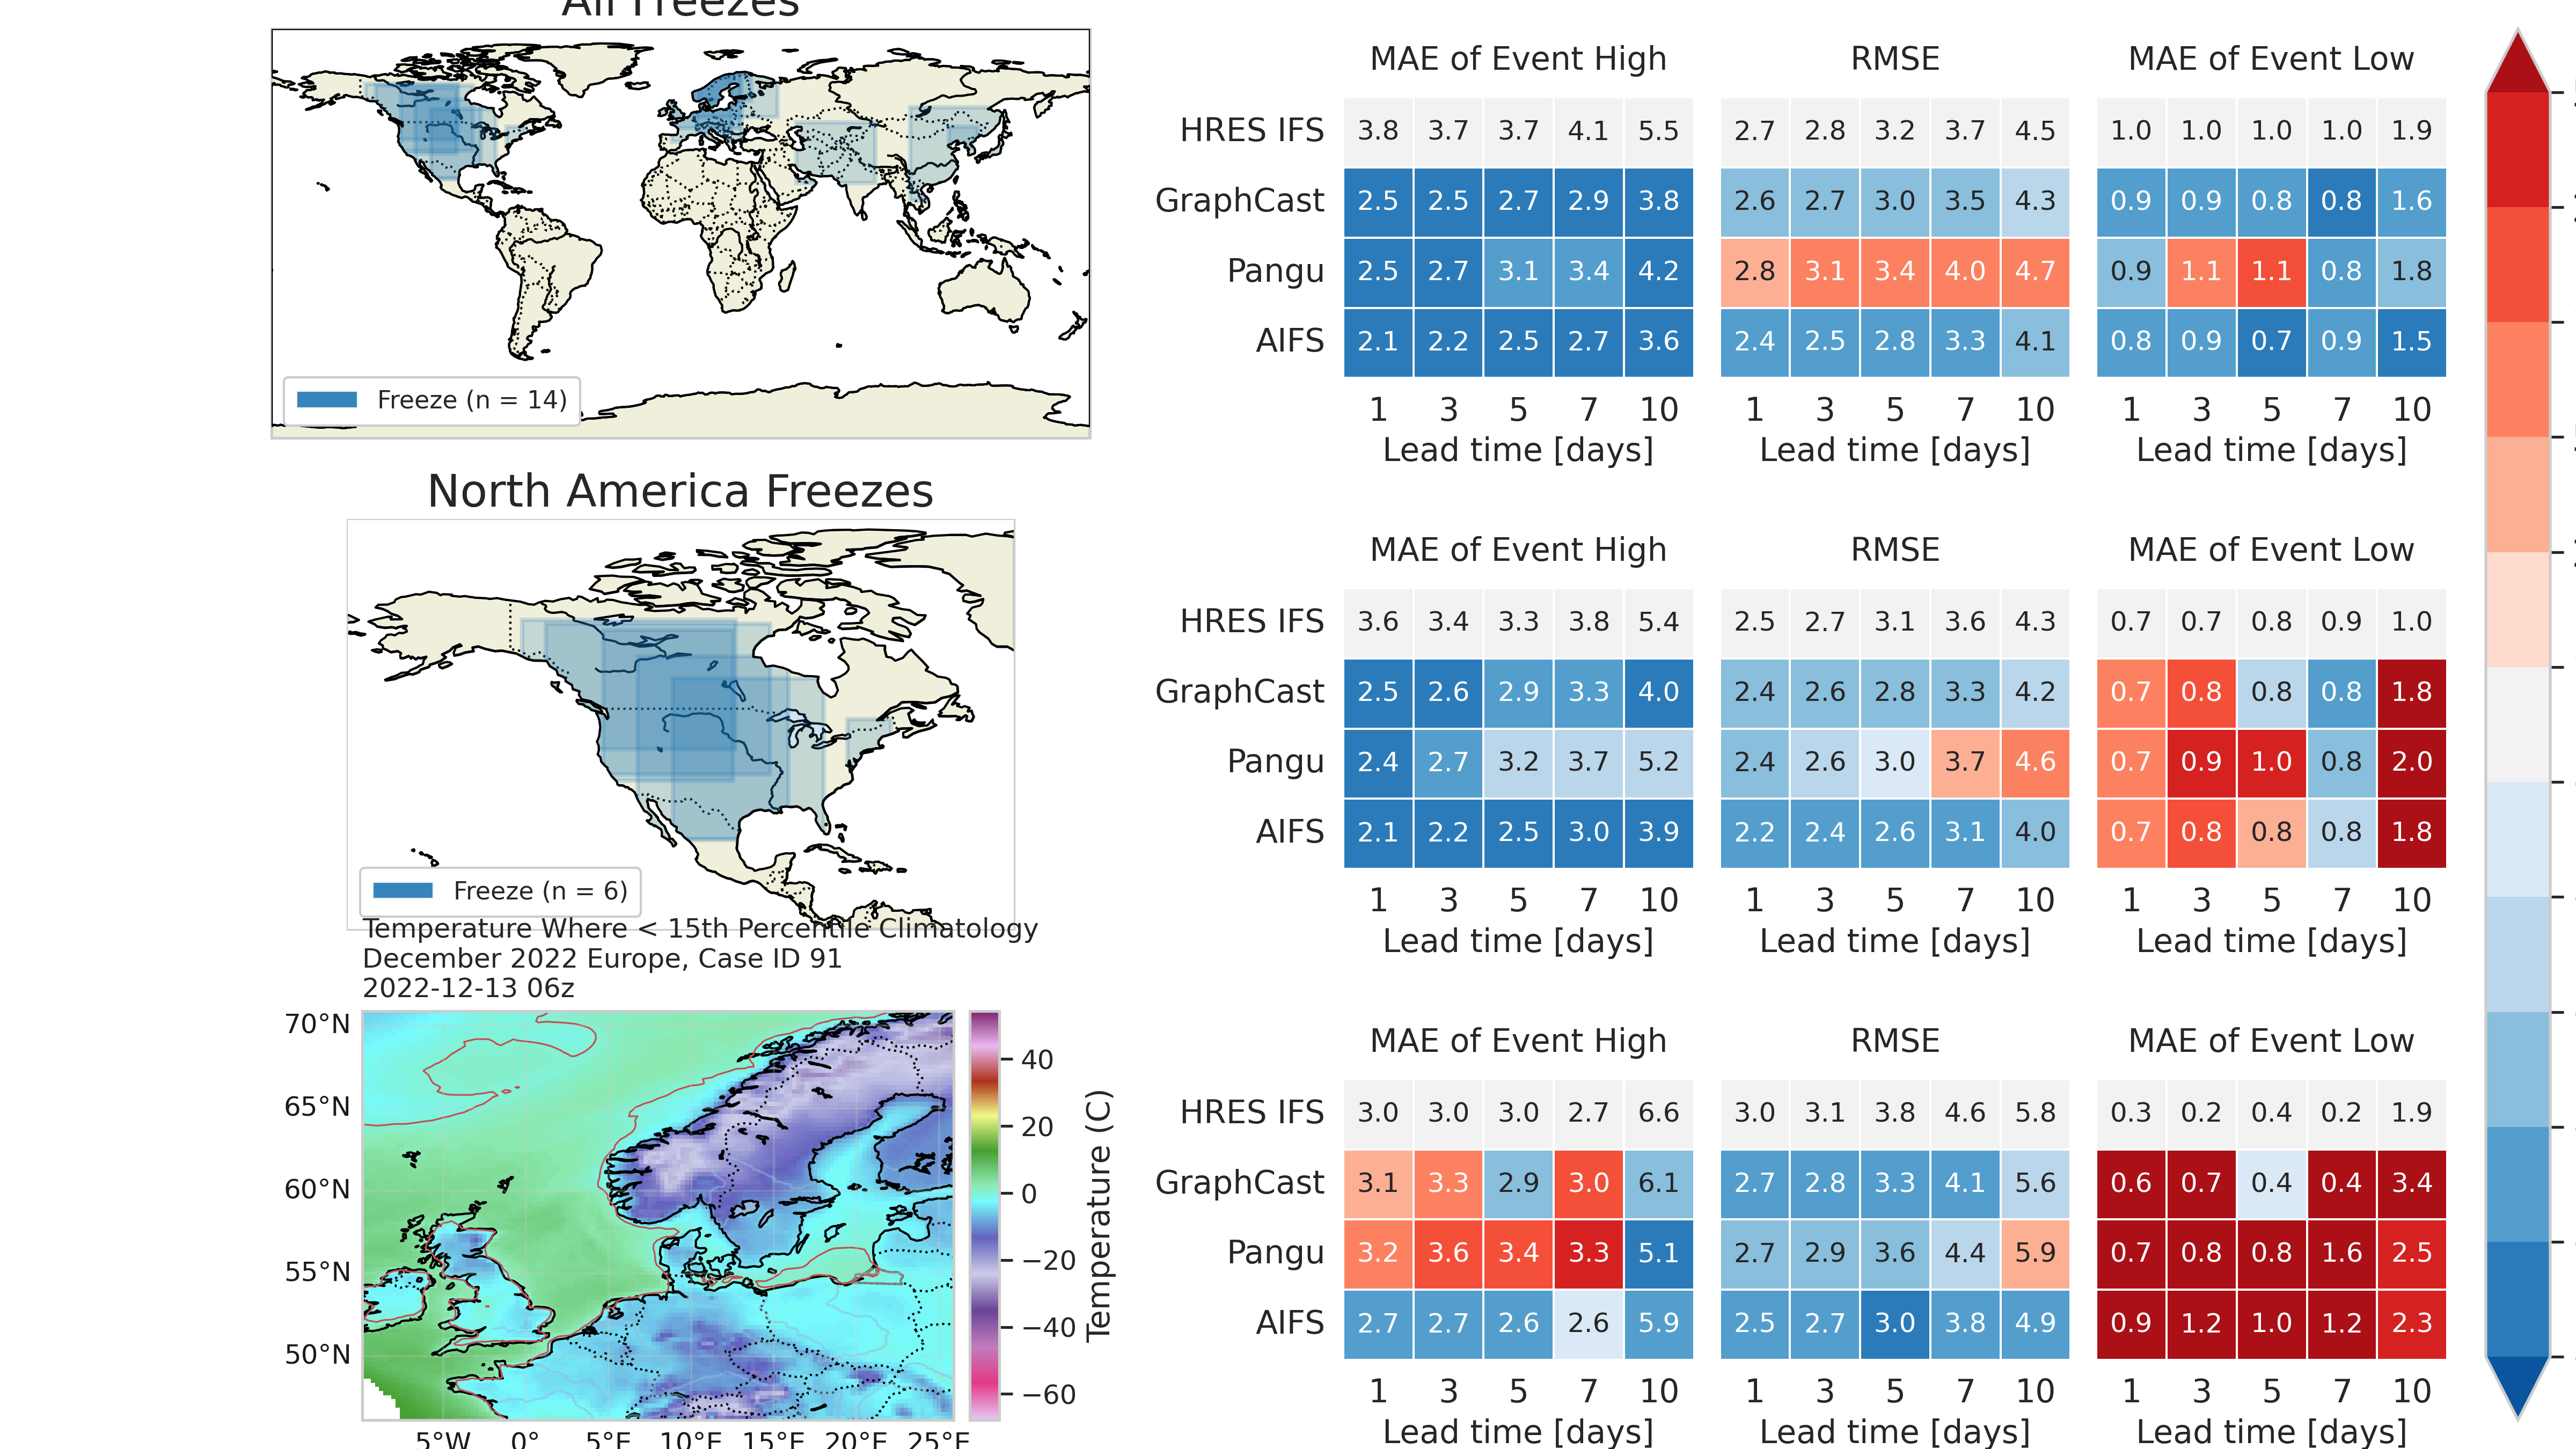
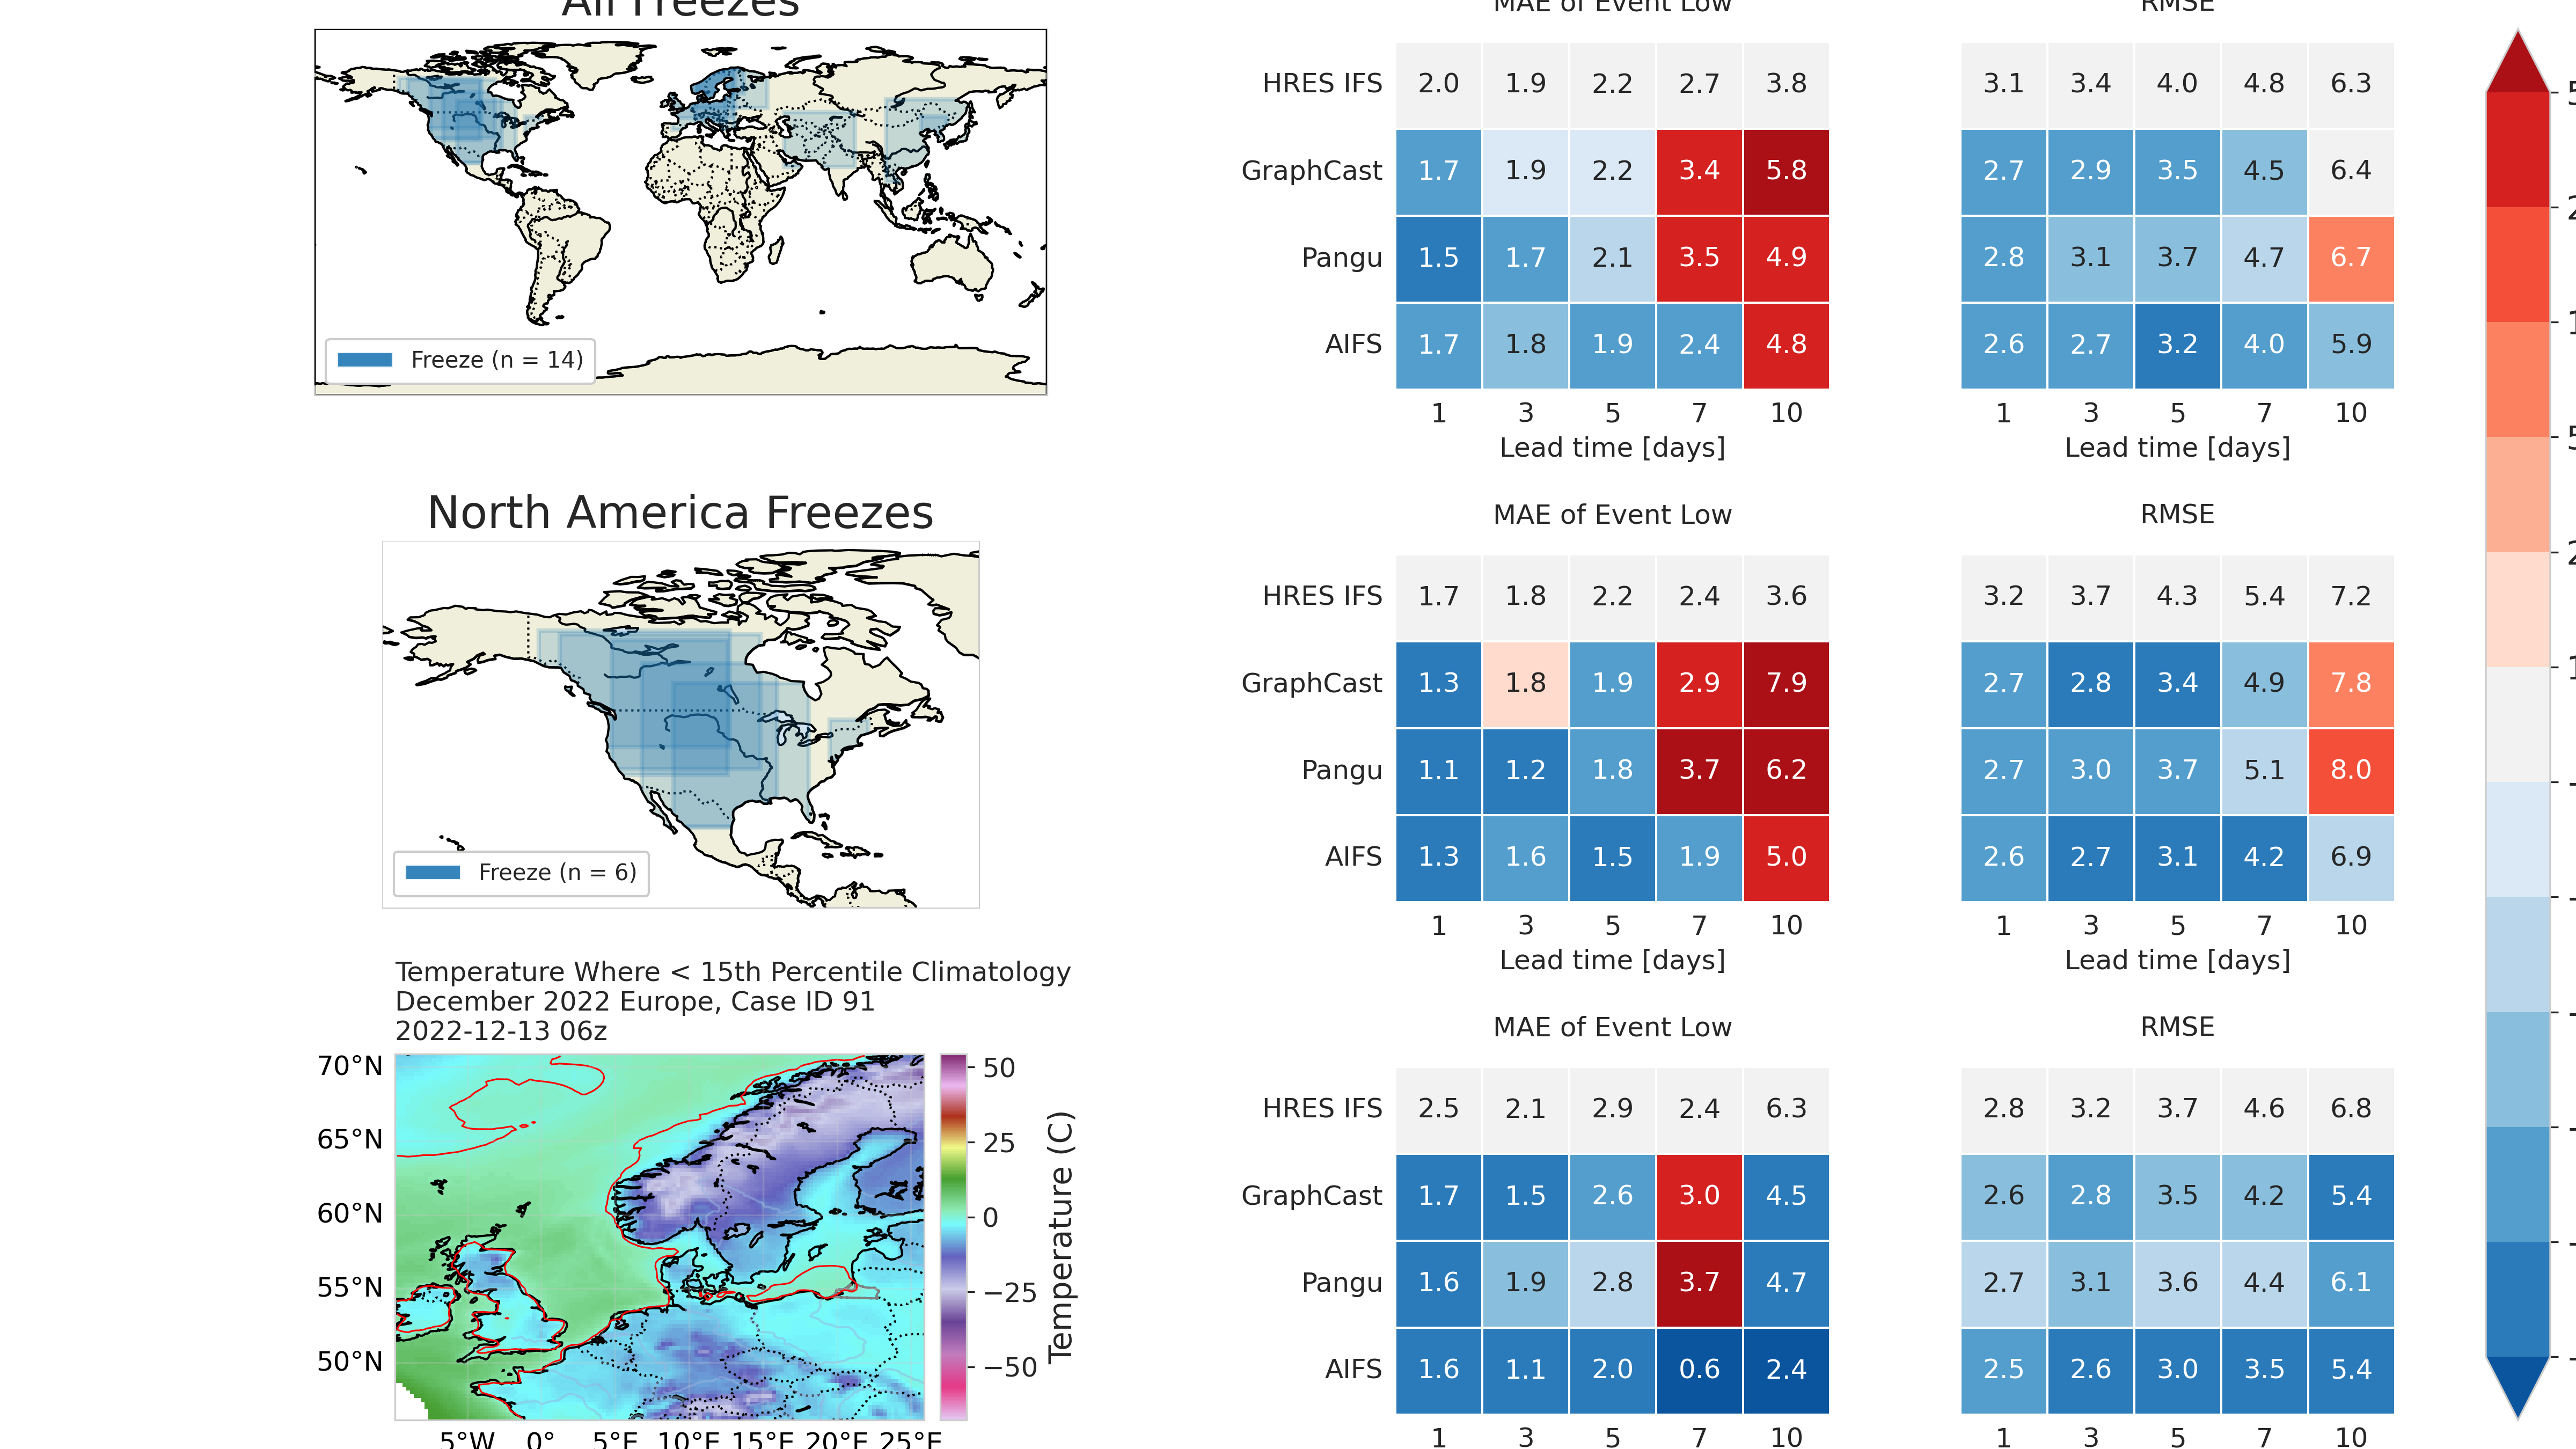
Fixed up figure 3 to put the colorbar back right and redid figure 2

diff --git a/src/plots/plotting_utils.py b/src/plots/plotting_utils.py
@@ -1654,6 +1654,86 @@ def add_scorecard_colorbar_right(
     return cb
 
 
+def add_horizontal_colorbar_below(
+    fig: plt.Figure,
+    mappable,
+    spanning_axes: Sequence[Any],
+    *,
+    n_subplots: Optional[int] = None,
+    pad: Optional[float] = None,
+    height: Optional[float] = None,
+    extend: str = "neither",
+    label: Optional[str] = None,
+    levels: Optional[Sequence[float]] = None,
+    label_fontsize: Optional[float] = None,
+    tick_labelsize: Optional[float] = None,
+):
+    """Add a horizontal colorbar below the bottom edge of a subplot span.
+
+    Horizontal extent and vertical placement use the union of ``get_position()``
+    boxes for ``spanning_axes`` (figure coordinates), analogous to
+    :func:`add_scorecard_colorbar_right`. Default ``pad`` and ``height`` follow
+    the layout used in ``plot_all_cbss_pph`` (fractions of the shortest axis
+    height in the span). For GridSpec-based layouts with a dedicated colorbar
+    row, see :func:`add_horizontal_colorbar`.
+
+    Args:
+        fig: Figure containing the axes.
+        mappable: ScalarMappable (cmap/norm) for the colorbar.
+        spanning_axes: Non-empty sequence of axes whose bbox union defines span.
+        n_subplots: If set, must equal ``len(spanning_axes)``.
+        pad: Figure-coordinate gap from the lowest ``y0`` in the span to the
+            top of the colorbar. If ``None``, ``0.15 * min_axis_height``.
+        height: Colorbar axis height in figure coordinates. If ``None``,
+            ``0.15 * min_axis_height``.
+        extend: Passed through to ``Figure.colorbar``.
+        label: Optional colorbar label.
+        levels: If set, passed to ``colorbar.set_ticks``.
+        label_fontsize: Label font size; if ``None``, derived from rcParams
+            like :func:`add_scorecard_colorbar_right`.
+        tick_labelsize: Tick label font size; if ``None``, matches
+            ``label_fontsize`` when that is set, else same rcParams-derived base
+            as the label.
+    """
+    axes_list = list(spanning_axes)
+    if not axes_list:
+        raise ValueError("spanning_axes must be non-empty")
+    if n_subplots is not None and len(axes_list) != n_subplots:
+        raise ValueError(
+            f"n_subplots={n_subplots} but len(spanning_axes)={len(axes_list)}"
+        )
+
+    boxes = [ax.get_position() for ax in axes_list]
+    x0 = min(b.x0 for b in boxes)
+    x1 = max(b.x1 for b in boxes)
+    y0_min = min(b.y0 for b in boxes)
+    min_axis_height = min(b.y1 - b.y0 for b in boxes)
+
+    if pad is None:
+        pad = 0.15 * min_axis_height
+    if height is None:
+        height = 0.15 * min_axis_height
+
+    cbar_bottom = y0_min - pad - height
+    cax = fig.add_axes([x0, cbar_bottom, x1 - x0, height])
+
+    cb = fig.colorbar(mappable, cax=cax, orientation="horizontal", extend=extend)
+    if levels is not None:
+        cb.set_ticks(list(levels))
+
+    base_size = plt.rcParams["font.size"]
+    font_scalings = fm.font_scalings
+    if label_fontsize is None:
+        label_fontsize = base_size * font_scalings.get("large", 1.0) * 1.2
+    if tick_labelsize is None:
+        tick_labelsize = label_fontsize
+
+    cb.ax.tick_params(axis="x", labelsize=tick_labelsize)
+    if label is not None:
+        cb.set_label(label, fontsize=label_fontsize)
+    return cb
+
+
 def plot_heatmap(
     relative_error_array,
     error_array,

diff --git a/src/plots/plot_all_cbss_pph.py b/src/plots/plot_all_cbss_pph.py
@@ -18,6 +18,7 @@ from extremeweatherbench import (
 from joblib import Parallel, delayed  # noqa: E402
 from joblib.externals.loky import get_reusable_executor  # noqa: E402
 
+import src.plots.plotting_utils as plot_utils  # noqa: E402
 import src.plots.results_utils as results_utils  # noqa: E402
 import src.plots.severe_convection_utils as severe_utils
 
@@ -322,21 +323,16 @@ if __name__ == "__main__":
         sm = plt.cm.ScalarMappable(cmap=cmap, norm=norm)
         sm.set_array([])  # Empty array, we just need the colormap/norm
 
-        # Get the bottom position of the lowest subplot
-        # Get the position from bottom row subplots to position colorbar below them
-        pos0 = axs[n_rows - 1, 0].get_position(fig)
-        pos3 = axs[n_rows - 1, (len(lead_times_to_plot) - 1)].get_position(fig)
-        # Create axes below row 5 that spans all 4 columns
-        # Position it just below row 5, using a small height
-        cbar_y = pos0.y0 - pos0.height * 0.3  # Position below bottom row
-        cbar_height = pos0.height * 0.15  # Height for colorbar
-        cbar_ax = fig.add_axes([pos0.x0, cbar_y, pos3.x1 - pos0.x0, cbar_height])
-
-        # Add horizontal colorbar below bottom row
-        cbar = fig.colorbar(sm, cax=cbar_ax, orientation='horizontal')
-        cbar.ax.set_xticks(levels)
-        cbar.ax.tick_params(labelsize=18)
-        cbar.set_label(r"Craven-Brooks Significant Severe (m$^{3}$/s$^{3}$)", fontsize=24)
+        plot_utils.add_horizontal_colorbar_below(
+            fig,
+            sm,
+            [axs[n_rows - 1, j] for j in range(n_cols)],
+            n_subplots=n_cols,
+            levels=levels,
+            label=r"Craven-Brooks Significant Severe (m$^{3}$/s$^{3}$)",
+            label_fontsize=24,
+            tick_labelsize=18,
+        )
 
 
         # make the overall title and save it        

diff --git a/src/data/severe_forecast_setup.py b/src/data/severe_forecast_setup.py
@@ -26,7 +26,11 @@ pph_metrics = [
         forecast_threshold=15000,
         target_threshold=0.01,
     ),
-    ewb.metrics.EarlySignal(threshold=15000, spatial_aggregation='half'),
+    ewb.metrics.EarlySignal(
+        comparison_operator=">=",
+        forecast_threshold=15000,
+        overlap_target_threshold=0.01
+        )
 ]
 
 # Define LSR metrics
@@ -57,7 +61,7 @@ class SevereForecastSetup:
             variable_mapping=ewb.inputs.CIRA_metadata_variable_mapping,
             storage_options={"remote_protocol": "s3", "remote_options": {"anon": True}},
             name=name_str,
-            preprocess=ewb.defaults._preprocess_severe_cira_forecast_dataset,
+            preprocess=ewb.defaults.preprocess_cira_kerchunk_severe_forecast_dataset,
         )
         return cira_severe_convection_forecast
 

diff --git a/src/data/ar_forecast_setup.py b/src/data/ar_forecast_setup.py
@@ -21,7 +21,11 @@ from src.data.model_name_setup import (
 ar_metrics = [
     ewb.metrics.CriticalSuccessIndex(),
     ewb.metrics.SpatialDisplacement(),
-    ewb.metrics.EarlySignal(spatial_aggregation='half'),
+    ewb.metrics.EarlySignal(
+        comparison_operator=">=",
+        forecast_threshold=0.5,
+        overlap_target_threshold=0.5
+        )
 ]
 
 class AtmosphericRiverForecastSetup:  